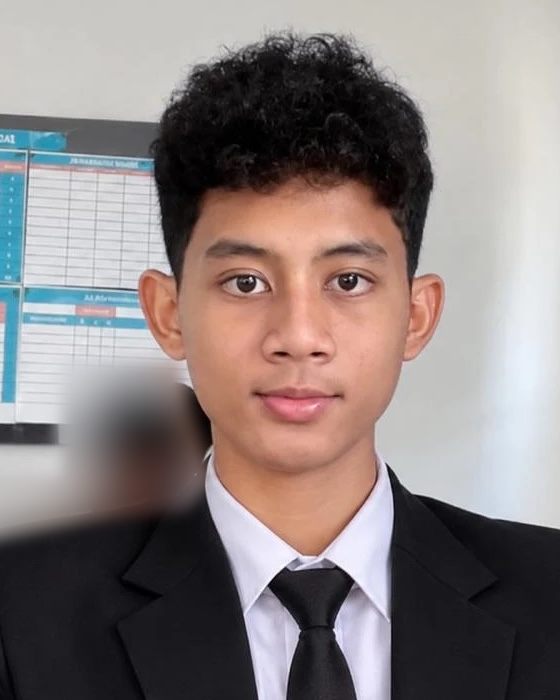
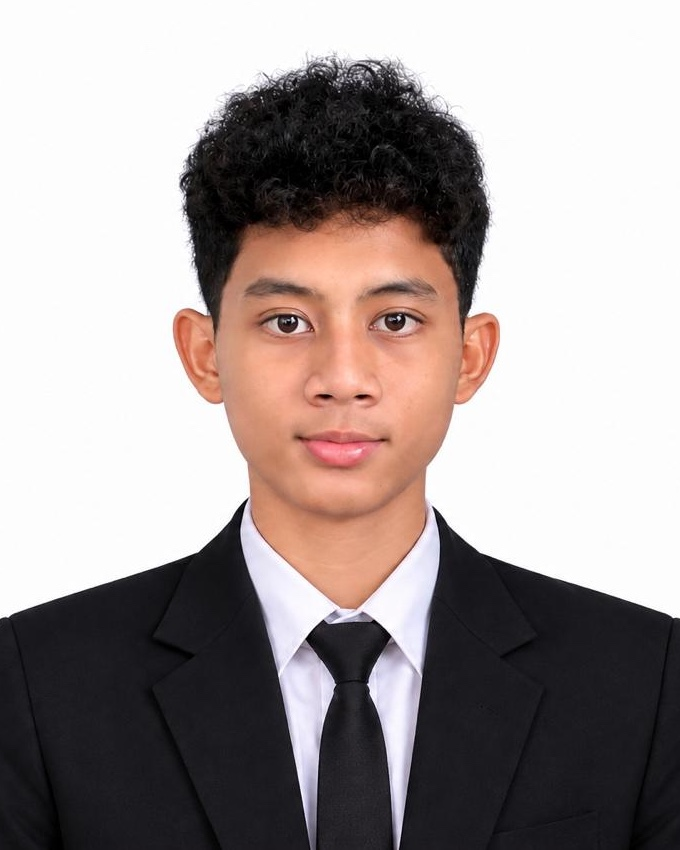
Jaring titik-garis menggantikan kristal, teks lebih sedang, foto revisi, data sekolah

diff --git a/main.js b/main.js
@@ -1,4 +1,4 @@
-// Scroll-driven page. Satu kristal 3D ringan di layer tetap, berpindah mengikuti bagian yang sedang dibaca.
+// Scroll-driven page. Satu jaring 3D ringan di layer tetap, berpindah mengikuti bagian yang sedang dibaca.
 const $ = (s, r = document) => r.querySelector(s);
 const $$ = (s, r = document) => [...r.querySelectorAll(s)];
 const clamp = (v, a = 0, b = 1) => Math.min(b, Math.max(a, v));
@@ -58,7 +58,9 @@ try {
 } catch (e) { renderer = null; }
 if (!renderer) stage.remove();
 
-let scene, camera, group, core, shell, ring, shards = [];
+let scene, camera, group, pts, lines, ptsPos, ptsCol, linePos, lineCol;
+const nodes = [], glow = [0, 0, 0];
+const COLS = 12, ROWS = 7, N = COLS * ROWS, MAXSEG = 1400;
 let C1, C2;
 if (renderer) {
   renderer.setPixelRatio(Math.min(devicePixelRatio, 1.5));
@@ -73,28 +75,42 @@ if (renderer) {
   group = new THREE.Group();
   scene.add(group);
 
-  core = new THREE.Mesh(new THREE.IcosahedronGeometry(1.7, 1),
-    new THREE.MeshStandardMaterial({ color: C1, roughness: .32, metalness: .3, flatShading: true }));
-  shell = new THREE.Mesh(new THREE.IcosahedronGeometry(2.15, 1),
-    new THREE.MeshBasicMaterial({ color: 0xffffff, wireframe: true, transparent: true, opacity: .16 }));
-  ring = new THREE.Mesh(new THREE.TorusGeometry(3, .012, 8, 160),
-    new THREE.MeshBasicMaterial({ color: C2, transparent: true, opacity: .6 }));
-  ring.rotation.x = Math.PI / 2.4;
-  group.add(core, shell, ring);
+  // jaring: titik tersebar rata (grid + jitter), garis menghubungkan titik yang berdekatan
+  for (let r = 0; r < ROWS; r++) for (let c = 0; c < COLS; c++) {
+    nodes.push({
+      bx: (c / (COLS - 1) - .5) * 9 + (Math.random() - .5) * .7,
+      by: (r / (ROWS - 1) - .5) * 5.4 + (Math.random() - .5) * .7,
+      bz: (Math.random() - .5) * 3,
+      f: .35 + Math.random() * .4, p: Math.random() * 6.28, q: Math.random() * 6.28,
+      k: (c + r) % 3
+    });
+  }
+  ptsPos = new Float32Array(N * 3); ptsCol = new Float32Array(N * 3);
+  linePos = new Float32Array(MAXSEG * 6); lineCol = new Float32Array(MAXSEG * 6);
 
-  // tiga serpihan = tiga proyek
-  [new THREE.OctahedronGeometry(.3), new THREE.TetrahedronGeometry(.36), new THREE.BoxGeometry(.4, .4, .4)].forEach((g, i) => {
-    const m = new THREE.Mesh(g, new THREE.MeshStandardMaterial({
-      color: [C2, 0xffffff, C1][i], roughness: .3, metalness: .3, flatShading: true, emissive: C2, emissiveIntensity: 0
-    }));
-    m.userData = { r: 2.9 + i * .25, sp: .5 + i * .18, o: i * 2.1, s: 1 };
-    group.add(m); shards.push(m);
-  });
+  const sprite = (() => {
+    const cv = document.createElement('canvas'); cv.width = cv.height = 64;
+    const g = cv.getContext('2d'), gr = g.createRadialGradient(32, 32, 0, 32, 32, 32);
+    gr.addColorStop(0, 'rgba(255,255,255,1)'); gr.addColorStop(.35, 'rgba(255,255,255,.75)'); gr.addColorStop(1, 'rgba(255,255,255,0)');
+    g.fillStyle = gr; g.fillRect(0, 0, 64, 64);
+    return new THREE.CanvasTexture(cv);
+  })();
 
-  scene.add(new THREE.AmbientLight(0xffffff, .5));
-  const key = new THREE.DirectionalLight(0xffffff, 1.1); key.position.set(4, 5, 6); scene.add(key);
-  const rim = new THREE.PointLight(C2, 1.5, 20); rim.position.set(-5, -2, 3); scene.add(rim);
-  const fill = new THREE.PointLight(C1, .9, 20); fill.position.set(5, -4, 2); scene.add(fill);
+  const pg = new THREE.BufferGeometry();
+  pg.setAttribute('position', new THREE.BufferAttribute(ptsPos, 3));
+  pg.setAttribute('color', new THREE.BufferAttribute(ptsCol, 3));
+  pts = new THREE.Points(pg, new THREE.PointsMaterial({
+    size: .26, map: sprite, vertexColors: true, transparent: true, depthWrite: false, blending: THREE.AdditiveBlending
+  }));
+  const lg = new THREE.BufferGeometry();
+  lg.setAttribute('position', new THREE.BufferAttribute(linePos, 3));
+  lg.setAttribute('color', new THREE.BufferAttribute(lineCol, 3));
+  lg.setDrawRange(0, 0);
+  lines = new THREE.LineSegments(lg, new THREE.LineBasicMaterial({
+    vertexColors: true, transparent: true, depthWrite: false, blending: THREE.AdditiveBlending
+  }));
+  pts.frustumCulled = lines.frustumCulled = false;
+  group.add(lines, pts);
 }
 
 function resize() {
@@ -110,8 +126,8 @@ function resize() {
 // Waypoint tiap bagian: posisi (pecahan setengah lebar/tinggi layar), skala, opasitas, 'pecah'
 const WP = {
   desk: [
-    { x: .4,  y: .3,  s: .74, a: 1,   e: 0 },   // hero
-    { x: .52, y: 0,   s: 1.15, a: .95, e: 0 },  // about: mengintip dari balik foto
+    { x: .3,  y: .1,  s: .95, a: 1,   e: 0 },   // hero
+    { x: .45, y: 0,   s: 1.05, a: .6,  e: 0 },  // about: jaring tipis di belakang teks dan foto
     { x: -.5, y: .5,  s: .5,  a: .8,  e: 0 },   // now: di area kosong kiri atas
     { x: 0,   y: 0,   s: 1.7, a: .11, e: 0 },   // skills: bayangan besar di belakang kata
     { x: .7,  y: 0,   s: .85, a: 1,   e: 1 },   // projects: pecah jadi tiga
@@ -198,29 +214,51 @@ function frame(now) {
   const halfH = Math.tan(19 * Math.PI / 180) * 8, halfW = halfH * camera.aspect;
   group.position.set(cur.x * halfW, cur.y * halfH, 0);
   group.scale.setScalar(cur.s);
-  group.rotation.y = mouse.x * .35 + scrollY * .0013 * m;
-  group.rotation.x = mouse.y * .22;
+  group.rotation.y = mouse.x * .22 + Math.sin(scrollY * .0011) * .3 * m;
+  group.rotation.x = mouse.y * .12;
   renderer.domElement.style.opacity = cur.a.toFixed(3);
 
-  const e = cur.e;
-  core.rotation.x += dt * .18 * m; core.rotation.y += dt * .26 * m;
-  core.scale.setScalar(lerp(1, .62, e));
-  shell.rotation.x -= dt * .08 * m; shell.rotation.y -= dt * .12 * m;
-  shell.scale.setScalar(lerp(1, 1.3, e)); shell.material.opacity = lerp(.16, .06, e);
-  ring.rotation.z += dt * (.15 + (1 - e) * 0) * m; ring.material.opacity = lerp(.6, .2, e);
+  const e = cur.e, tm = t * m;
+  const R = lerp(1.75, .85, e), R2 = R * R;
+  const mx = (mouse.x * halfW - group.position.x) / cur.s, my = (-mouse.y * halfH - group.position.y) / cur.s;
+  for (let c = 0; c < 3; c++) glow[c] += ((e > .5 && c === activeIdx ? 1 : 0) - glow[c]) * .1;
 
-  shards.forEach((s, i) => {
-    const d = s.userData, a = t * d.sp * m + d.o;
-    const ox = Math.cos(a) * d.r, oy = Math.sin(a * .8) * 1.3, oz = Math.sin(a) * d.r * .6;
-    const cx = 2.5, cy = (1 - i) * 1.6, cz = .3;
-    s.position.set(lerp(ox, cx, e), lerp(oy, cy, e), lerp(oz, cz, e));
-    const on = e > .5 && i === activeIdx;
-    const ts = e > .5 ? (on ? 2.1 : .8) : 1;
-    d.s += (ts - d.s) * .12;
-    s.scale.setScalar(d.s);
-    s.material.emissiveIntensity += ((on ? .9 : 0) - s.material.emissiveIntensity) * .12;
-    s.rotation.x += dt * 1.2 * m; s.rotation.y += dt * .9 * m;
-  });
+  for (let i = 0; i < N; i++) {
+    const n = nodes[i];
+    let x = n.bx + Math.sin(tm * n.f + n.p) * .22;
+    let y = n.by + Math.cos(tm * n.f * .9 + n.q) * .22;
+    let z = n.bz + Math.sin(tm * .5 + n.p) * .3;
+    const kk = .3 + glow[n.k] * .08;   // tiga gugus: yang aktif sedikit lebih besar
+    x = lerp(x, x * kk, e); y = lerp(y, (1 - n.k) * 2.4 + y * kk, e); z = lerp(z, z * kk, e);
+    if (!reduce) {                       // titik menjauh dari kursor
+      const dx = x - mx, dy = y - my, d2 = dx * dx + dy * dy;
+      if (d2 < 2.25) { const d = Math.sqrt(d2) || .001, f = (1 - d / 1.5) * .5; x += dx / d * f; y += dy / d * f; }
+    }
+    n.x = x; n.y = y; n.z = z;
+    ptsPos[i * 3] = x; ptsPos[i * 3 + 1] = y; ptsPos[i * 3 + 2] = z;
+    const g = glow[n.k], br = .95 + g * .3;
+    ptsCol[i * 3] = lerp(C1.r, C2.r, g) * br; ptsCol[i * 3 + 1] = lerp(C1.g, C2.g, g) * br; ptsCol[i * 3 + 2] = lerp(C1.b, C2.b, g) * br;
+  }
+
+  let seg = 0;
+  for (let i = 0; i < N && seg < MAXSEG; i++) {
+    const a = nodes[i];
+    for (let j = i + 1; j < N && seg < MAXSEG; j++) {
+      const b = nodes[j], dx = a.x - b.x, dy = a.y - b.y, dz = a.z - b.z, d2 = dx * dx + dy * dy + dz * dz;
+      if (d2 >= R2) continue;
+      const fade = 1 - Math.sqrt(d2) / R;
+      const gi = a.k === b.k ? (glow[a.k] + glow[b.k]) / 2 : 0;
+      const w = fade * (1.05 + .8 * gi);
+      const cr = lerp(C1.r, C2.r, gi) * w, cg = lerp(C1.g, C2.g, gi) * w, cb = lerp(C1.b, C2.b, gi) * w;
+      const o = seg * 6;
+      linePos[o] = a.x; linePos[o + 1] = a.y; linePos[o + 2] = a.z; linePos[o + 3] = b.x; linePos[o + 4] = b.y; linePos[o + 5] = b.z;
+      lineCol[o] = lineCol[o + 3] = cr; lineCol[o + 1] = lineCol[o + 4] = cg; lineCol[o + 2] = lineCol[o + 5] = cb;
+      seg++;
+    }
+  }
+  lines.geometry.setDrawRange(0, seg * 2);
+  lines.geometry.attributes.position.needsUpdate = true; lines.geometry.attributes.color.needsUpdate = true;
+  pts.geometry.attributes.position.needsUpdate = true; pts.geometry.attributes.color.needsUpdate = true;
 
   if (visible) renderer.render(scene, camera);
 }

diff --git a/style.css b/style.css
@@ -75,7 +75,7 @@ main { position: relative; z-index: 1; }
 .hero-top {
   position: relative; z-index: 2; margin-top: 34px;
   display: flex; justify-content: space-between; align-items: center; gap: 12px;
-  font: 400 12px/1 var(--mono); letter-spacing: .14em; text-transform: uppercase; color: var(--muted);
+  font: 400 13px/1 var(--mono); letter-spacing: .02em; color: var(--muted);
 }
 .chip { display: inline-flex; align-items: center; gap: 10px; padding: 9px 14px; border: 1px solid var(--line); border-radius: 999px; background: rgba(var(--bg-rgb),.5); backdrop-filter: blur(6px); }
 .dot { display: inline-block; width: 7px; height: 7px; border-radius: 50%; background: #5ee08a; box-shadow: 0 0 10px #5ee08a; }
@@ -88,9 +88,9 @@ main { position: relative; z-index: 1; }
 .hero h1 { opacity: calc(1 - var(--p) * 1.2); }
 .hero .intro, .hero-top { opacity: calc(1 - var(--p) * 2); }
 .hero-row { opacity: calc(1 - var(--p) * 1.6); transform: translate3d(0, calc(var(--p) * 36px), 0); }
-.intro { font: 500 13px/1 var(--mono); letter-spacing: .2em; text-transform: uppercase; color: var(--accent); margin-bottom: 18px; }
+.intro { font: 500 14px/1 var(--mono); letter-spacing: .02em; color: var(--accent); margin-bottom: 16px; }
 h1 {
-  font: 800 clamp(54px, 12.6vw, 190px)/.9 var(--display); letter-spacing: -.055em;
+  font: 800 clamp(40px, 6.6vw, 96px)/1 var(--display); letter-spacing: -.04em;
   white-space: nowrap; margin-left: -.04em;
 }
 h1 .outline { color: transparent; -webkit-text-stroke: clamp(1.5px, .18vw, 3px) var(--text); }
@@ -115,7 +115,7 @@ h1 .outline { color: transparent; -webkit-text-stroke: clamp(1.5px, .18vw, 3px) 
 /* SECTIONS */
 .section { padding: clamp(80px, 12vw, 150px) var(--gutter); max-width: 1320px; margin: 0 auto; }
 .kicker { font: 500 13px/1 var(--mono); letter-spacing: .12em; color: var(--accent); margin-bottom: 20px; }
-h2 { font: 800 clamp(32px, 4.6vw, 58px)/1.04 var(--display); letter-spacing: -.035em; max-width: 20ch; }
+h2 { font: 700 clamp(26px, 3.4vw, 44px)/1.12 var(--display); letter-spacing: -.035em; max-width: 20ch; }
 
 /* PIN: scroll sebagai timeline */
 .pin { position: relative; }
@@ -163,8 +163,8 @@ h2 { font: 800 clamp(32px, 4.6vw, 58px)/1.04 var(--display); letter-spacing: -.0
 .track { display: flex; align-items: center; gap: clamp(40px, 8vw, 120px); padding: 0 var(--gutter); will-change: transform; }
 .panel { flex: 0 0 auto; width: min(80vw, 960px); }
 .panel.intro { width: min(72vw, 680px); }
-.p-label { font: 400 13px/1 var(--mono); letter-spacing: .16em; text-transform: uppercase; color: var(--accent); margin-bottom: 14px; }
-.p-word { font: 800 clamp(64px, 13vw, 200px)/.9 var(--display); letter-spacing: -.055em; }
+.p-label { font: 400 14px/1 var(--mono); letter-spacing: .02em; color: var(--accent); margin-bottom: 14px; }
+.p-word { font: 800 clamp(44px, 7vw, 104px)/1 var(--display); letter-spacing: -.04em; }
 .p-word.outline { color: transparent; -webkit-text-stroke: clamp(1.5px, .18vw, 3px) var(--text); }
 .p-list { margin-top: 22px; font: 600 clamp(18px, 2.2vw, 28px)/1.2 var(--display); color: var(--muted); }
 .p-list i { font-style: normal; color: var(--accent); margin: 0 .25em; }
@@ -188,7 +188,7 @@ h2 { font: 800 clamp(32px, 4.6vw, 58px)/1.04 var(--display); letter-spacing: -.0
 /* CONTACT */
 .contact { text-align: center; }
 .contact .kicker, .contact h2 { margin-inline: auto; }
-h2.big { font-size: clamp(42px, 8vw, 110px); max-width: 12ch; letter-spacing: -.045em; }
+h2.big { font-size: clamp(34px, 5.4vw, 76px); max-width: 14ch; letter-spacing: -.035em; }
 h2.big em { display: block; font-style: normal; color: var(--accent); }
 .links { display: flex; flex-wrap: wrap; gap: 14px; justify-content: center; margin-top: 44px; }
 
@@ -206,7 +206,7 @@ footer {
 @media (max-width: 860px) {
   .nav nav a:not(.pill) { display: none; }
   .loc { display: none; }
-  h1 { white-space: normal; font-size: clamp(54px, 17vw, 120px); }
+  h1 { white-space: normal; font-size: clamp(40px, 12vw, 64px); }
   h1 span { display: block; }
   .hero h1 span:first-child { transform: translate3d(calc(var(--p) * -30vw), 0, 0); }
   .hero h1 span.outline { transform: translate3d(calc(var(--p) * 30vw), 0, 0); }

diff --git a/index.html b/index.html
@@ -4,7 +4,7 @@
   <meta charset="utf-8">
   <meta name="viewport" content="width=device-width, initial-scale=1">
   <title>Ahmad Ashraf | Portfolio</title>
-  <meta name="description" content="Portofolio Ahmad Ashraf, siswa SMK jurusan RPL (Rekayasa Perangkat Lunak) yang suka ngoprek dan belajar bikin aplikasi.">
+  <meta name="description" content="Portofolio Ahmad Ashraf, siswa kelas 11 SMKIT Assyifa Boarding School jurusan RPL (Rekayasa Perangkat Lunak) yang suka ngoprek dan belajar bikin aplikasi.">
   <link rel="preconnect" href="https://fonts.googleapis.com">
   <link rel="preconnect" href="https://fonts.gstatic.com" crossorigin>
   <link href="https://fonts.googleapis.com/css2?family=Bricolage+Grotesque:opsz,wght@12..96,500;12..96,700;12..96,800&family=Inter:wght@400;500;600&family=JetBrains+Mono:wght@400;500&display=swap" rel="stylesheet">
@@ -46,7 +46,7 @@
       </div>
 
       <div class="hero-main">
-        <p class="intro">Siswa SMK · Rekayasa Perangkat Lunak</p>
+        <p class="intro">Kelas 11 · SMKIT Assyifa Boarding School · RPL</p>
         <h1><span>Ahmad</span> <span class="outline">Ashraf</span></h1>
         <div class="hero-row">
           <p class="lead">Suka ngoprek, suka belajar, dan lagi serius nyusun karya pertamaku satu per satu.</p>
@@ -63,12 +63,12 @@
       <div class="pin-inner">
         <div class="about-copy">
           <h2>Belajar bikin web, dari nol sampai bisa dipakai orang.</h2>
-          <p class="lit">Aku Ahmad Ashraf, siswa SMK jurusan RPL (Rekayasa Perangkat Lunak). Cara belajarku sederhana: coba, error, benerin, ulangi. Targetnya bikin sesuatu yang rapi dan benar-benar berguna.</p>
+          <p class="lit">Aku Ahmad Ashraf, siswa kelas 11 SMKIT Assyifa Boarding School jurusan RPL (Rekayasa Perangkat Lunak). Cara belajarku sederhana: coba, error, benerin, ulangi. Targetnya bikin sesuatu yang rapi dan benar-benar berguna.</p>
         </div>
         <div class="photo">
           <span class="frame"></span>
           <div class="img"><img src="assets/photo.jpg" alt="Foto Ahmad Ashraf" width="560" height="700"></div>
-          <span class="tag">SMK · RPL</span>
+          <span class="tag">SMKIT Assyifa · RPL</span>
         </div>
       </div>
     </section>

diff --git a/.claude/skills/desain-portfolio/SKILL.md b/.claude/skills/desain-portfolio/SKILL.md
@@ -1,6 +1,6 @@
 ---
 name: desain-portfolio
-description: Panduan desain portfolio Ahmad Ashraf (tema gelap kalem, kristal 3D yang mengikuti scroll, efek scroll per bagian). Pakai setiap kali menambah bagian, mengubah tampilan, mengganti warna, atau mengisi konten di situs portfolio ini, supaya semuanya tetap satu gaya.
+description: Panduan desain portfolio Ahmad Ashraf (tema gelap kalem, jaring 3D yang mengikuti scroll, efek scroll per bagian). Pakai setiap kali menambah bagian, mengubah tampilan, mengganti warna, atau mengisi konten di situs portfolio ini, supaya semuanya tetap satu gaya.
 ---
 
 # Desain portfolio Ahmad Ashraf
@@ -13,7 +13,7 @@ Sebelum mengubah apa pun, baca bagian yang relevan di bawah dan ikuti. Kalau per
 
 1. **Gelap yang kalem.** Latar hitam kehijauan, aksen lembut, tidak silau.
 2. **Scroll adalah timeline.** Dua bagian berurutan tidak boleh memakai efek scroll yang sama.
-3. **3D secukupnya.** Satu kristal di layer tetap. Tidak ada video, model berat, atau tekstur.
+3. **3D secukupnya.** Satu jaring titik-garis di layer tetap. Tidak ada video atau model berat.
 4. **Satu puncak.** Momen paling berkesan ada di bagian Proyek. Bagian lain sengaja lebih tenang.
 5. **Beda dari web lama Ahmad.** Jangan pakai bingkai arch untuk foto, titik aksen di belakang nama, strip marquee, atau kartu skill berbentuk chip.
 
@@ -70,23 +70,25 @@ Semua warna adalah variabel di `:root` pada `style.css`. Jangan tulis hex langsu
 | Tentang | pin + reveal | Bagian berhenti, foto terbuka dari bawah, kalimat menyala per kata |
 | Lagi sibuk apa | reveal | Terminal muncul |
 | Skill | pin + pan | Halaman bergeser ke samping, satu panel per kategori |
-| Proyek (puncak) | sorotan baris | Kristal pecah jadi tiga, serpihan proyek aktif membesar dan menyala |
-| Kontak | reveal | Kristal utuh dan tenang, judul besar sebagai penutup |
+| Proyek (puncak) | sorotan baris | Jaring terbelah jadi tiga gugus, gugus proyek aktif menyala |
+| Kontak | reveal | Jaring utuh dan samar, judul sebagai penutup |
 
 Aturan:
 - Animasikan hanya `transform` dan `opacity`; wipe memakai `clip-path`. Jangan animasikan `width`, `height`, `top`, `left`.
 - Tinggi bagian pin dihitung dari isi (skill: tinggi layar + lebar track), bukan angka tetap.
-- `prefers-reduced-motion`: semua pin dimatikan, foto dan kata langsung tampil, kristal tidak berputar.
+- `prefers-reduced-motion`: semua pin dimatikan, foto dan kata langsung tampil, jaring tidak bergerak.
 - Bagian baru: pilih perangkat yang berbeda dari bagian di sebelahnya, tentukan satu baris di tabel `WP` pada `main.js`, dan tulis dulu rasa yang ingin ditimbulkan.
 
 ## Objek 3D
 
-- Satu `canvas` tetap di belakang konten (`position: fixed`, `pointer-events: none`).
-- Isi: inti ikosahedron bersudut datar, cangkang wireframe tipis, satu cincin, tiga serpihan (satu per proyek).
+- Satu `canvas` tetap di belakang konten (`position: fixed`, `pointer-events: none`), Three.js.
+- Bentuknya **jaring** (jaring-jaring): sekitar 84 titik bercahaya yang tersebar rata, dihubungkan garis tipis antar titik yang berdekatan. Bukan bola atau globe; jangan kembalikan ke bentuk bulat.
+- Titik melayang pelan, dan menjauh dari kursor. Garis dihitung ulang tiap frame dari jarak antar titik.
 - Posisi, skala, opasitas, dan tingkat "pecah" per bagian ada di tabel `WP` (`main.js`), dihaluskan saat scroll. Desktop dan mobile punya tabel sendiri; jumlah baris harus sama dengan jumlah bagian di `secs`.
-- Anggaran performa: pixel ratio maksimal 1.5, empat lampu, tanpa tekstur, tanpa bayangan, render berhenti saat tab tersembunyi.
-- Di bagian dengan banyak teks (skill, kontak) turunkan opasitas kristal supaya teks terbaca.
-- Kristal tidak boleh menimpa teks atau kartu. Kalau perlu, pindahkan ke area kosong.
+- Di bagian Proyek jaring terbelah jadi tiga gugus (satu per proyek). Gugus proyek yang sedang dibaca berwarna `--accent2` dan sedikit lebih besar.
+- Anggaran performa: pixel ratio maksimal 1.5, maksimal 1400 garis, tanpa bayangan dan tanpa lampu. Satu-satunya tekstur adalah sprite titik kecil yang dibuat lewat canvas. Render berhenti saat tab tersembunyi.
+- Di bagian dengan banyak teks (tentang, skill, kontak) opasitas jaring diturunkan supaya teks terbaca.
+- Jaring tidak boleh membuat teks sulit dibaca. Kalau perlu, turunkan opasitas atau pindahkan ke area kosong.
 - Kalau WebGL gagal, canvas dibuang dan halaman tetap utuh.
 
 ## Larangan
@@ -100,13 +102,13 @@ Aturan:
 ## Konten
 
 - Bahasa Indonesia santai, kalimat pendek.
-- Jurusan ditulis **RPL (Rekayasa Perangkat Lunak)**, bukan "Software Development".
+- Sekolah: **SMKIT Assyifa Boarding School**, kelas 11. Jurusan ditulis **RPL (Rekayasa Perangkat Lunak)**, bukan "Software Development".
 - Proyek dan skill harus sesuai isi repo GitHub Ahmad (`github.com/ahmadasraf2153`): KicksStore (Flutter), Diah Bakery (Laravel), Sanbercode Laravel Web Dev.
 - Foto: `assets/photo.jpg`, rasio 4:5.
 - Masih kosong: email dan Instagram di bagian Kontak.
 
 ## Setelah mengubah
 
-1. Cek di desktop (sekitar 1280px) dan mobile (375px), termasuk tiap posisi scroll yang berubah. Tunggu beberapa detik sebelum menilai, karena kristal dihaluskan.
+1. Cek di desktop (sekitar 1280px) dan mobile (375px), termasuk tiap posisi scroll yang berubah. Tunggu beberapa detik sebelum menilai, karena jaring dihaluskan.
 2. Pastikan tidak ada scroll horizontal.
 3. Commit, push, lalu `vercel deploy --prod --yes`. Situs live: `https://portfolio-ahmad-ashraf.vercel.app`.

diff --git a/desain.md b/desain.md
@@ -6,8 +6,8 @@ Panduan desain situs ini. Pakai file ini sebagai acuan tiap kali menambah bagian
 
 1. **Gelap yang kalem.** Latar hitam kehijauan, aksen lembut. Enak dilihat lama, tidak silau.
 2. **Scroll adalah timeline.** Tiap bagian punya efek scroll yang berbeda, tidak ada dua bagian berurutan yang bergerak sama.
-3. **3D secukupnya.** Satu kristal di layer tetap, ringan. Tidak ada video atau model berat.
-4. **Satu puncak.** Momen paling berkesan ada di bagian Proyek (kristal pecah jadi tiga). Bagian lain sengaja lebih tenang.
+3. **3D secukupnya.** Satu jaring titik-garis di layer tetap, ringan. Tidak ada video atau model berat.
+4. **Satu puncak.** Momen paling berkesan ada di bagian Proyek (jaring terbelah jadi tiga). Bagian lain sengaja lebih tenang.
 5. **Beda dari yang lain.** Jangan meniru web lama Ahmad: tanpa bingkai arch, tanpa titik aksen di nama, tanpa strip marquee, tanpa kartu skill berbentuk chip.
 
 ## 2. Warna
@@ -65,23 +65,26 @@ Semua warna ada sebagai variabel di `:root` pada `style.css`. Jangan tulis hex l
 | Tentang | pin + reveal | Bagian berhenti, foto terbuka dari bawah, kalimat menyala per kata | Hangat, dikenali |
 | Lagi sibuk apa | reveal biasa | Terminal muncul | Santai |
 | Skill | pin + pan | Halaman bergeser ke samping, satu panel per kategori | Ritme |
-| Proyek (puncak) | sorotan baris | Kristal pecah jadi tiga, serpihan proyek aktif membesar dan menyala | Puas |
-| Kontak | reveal | Kristal utuh lagi dan tenang, judul besar bertahan sebagai penutup | Lega |
+| Proyek (puncak) | sorotan baris | Jaring terbelah jadi tiga gugus, gugus proyek aktif menyala | Puas |
+| Kontak | reveal | Jaring utuh lagi dan samar, judul bertahan sebagai penutup | Lega |
 
 Aturan:
 - Dua bagian berurutan tidak boleh memakai perangkat yang sama.
 - Animasi hanya `transform` dan `opacity`; wipe memakai `clip-path`. Jangan animasikan `width`, `height`, `top`, `left`.
 - Tinggi bagian pin dihitung dari isi (skill: tinggi layar + lebar track), bukan angka tetap.
-- Pengguna dengan `prefers-reduced-motion`: semua pin dimatikan, foto dan kata langsung tampil, kristal tidak berputar.
+- Pengguna dengan `prefers-reduced-motion`: semua pin dimatikan, foto dan kata langsung tampil, jaring tidak bergerak.
 
 ## 7. Objek 3D
 
 - Satu `canvas` tetap di belakang konten (`position: fixed`, `pointer-events: none`), Three.js.
-- Isi: inti ikosahedron bersudut datar, cangkang wireframe tipis, satu cincin, tiga serpihan kecil.
-- Posisi, skala, opasitas, dan tingkat "pecah" ditentukan per bagian (tabel `WP` di `main.js`), lalu dihaluskan saat scroll. Desktop dan mobile punya tabel sendiri.
-- Anggaran performa: piksel rasio maksimal 1.5, lampu hanya empat, tidak ada tekstur, tidak ada bayangan. Render berhenti saat tab tersembunyi.
-- Di bagian dengan banyak teks (skill, kontak) opasitas kristal diturunkan jadi bayangan samar supaya teks tetap terbaca.
-- Jika WebGL gagal, canvas dibuang dan halaman tetap utuh.
+- Bentuknya **jaring** (jaring-jaring): sekitar 84 titik bercahaya yang tersebar rata, dihubungkan garis tipis antar titik yang berdekatan. Bukan bola atau globe; jangan kembalikan ke bentuk bulat.
+- Titik melayang pelan, dan menjauh dari kursor. Garis dihitung ulang tiap frame dari jarak antar titik.
+- Posisi, skala, opasitas, dan tingkat "pecah" per bagian ada di tabel `WP` (`main.js`), dihaluskan saat scroll. Desktop dan mobile punya tabel sendiri; jumlah baris harus sama dengan jumlah bagian di `secs`.
+- Di bagian Proyek jaring terbelah jadi tiga gugus (satu per proyek). Gugus proyek yang sedang dibaca berwarna `--accent2` dan sedikit lebih besar.
+- Anggaran performa: pixel ratio maksimal 1.5, maksimal 1400 garis, tanpa bayangan dan tanpa lampu. Satu-satunya tekstur adalah sprite titik kecil yang dibuat lewat canvas. Render berhenti saat tab tersembunyi.
+- Di bagian dengan banyak teks (tentang, skill, kontak) opasitas jaring diturunkan supaya teks terbaca.
+- Jaring tidak boleh membuat teks sulit dibaca. Kalau perlu, turunkan opasitas atau pindahkan ke area kosong.
+- Kalau WebGL gagal, canvas dibuang dan halaman tetap utuh.
 
 ## 8. Larangan
 
@@ -96,4 +99,4 @@ Aturan:
 - Placeholder ditandai komentar `TODO` di `index.html`: proyek, skill, isi terminal, dan link kontak.
 - Foto: `assets/photo.jpg`, rasio 4:5. Semakin besar resolusinya semakin tajam.
 - Tema baru: salin blok `[data-theme="..."]` di `style.css`, ganti nilai token, lalu panggil lewat `?theme=nama`.
-- Bagian baru: pilih perangkat scroll yang belum dipakai bagian di sebelahnya, tentukan satu baris di tabel `WP` untuk kristal, dan tulis rasa yang ingin ditimbulkan sebelum membuat tampilannya.
+- Bagian baru: pilih perangkat scroll yang belum dipakai bagian di sebelahnya, tentukan satu baris di tabel `WP` untuk jaring, dan tulis rasa yang ingin ditimbulkan sebelum membuat tampilannya.
